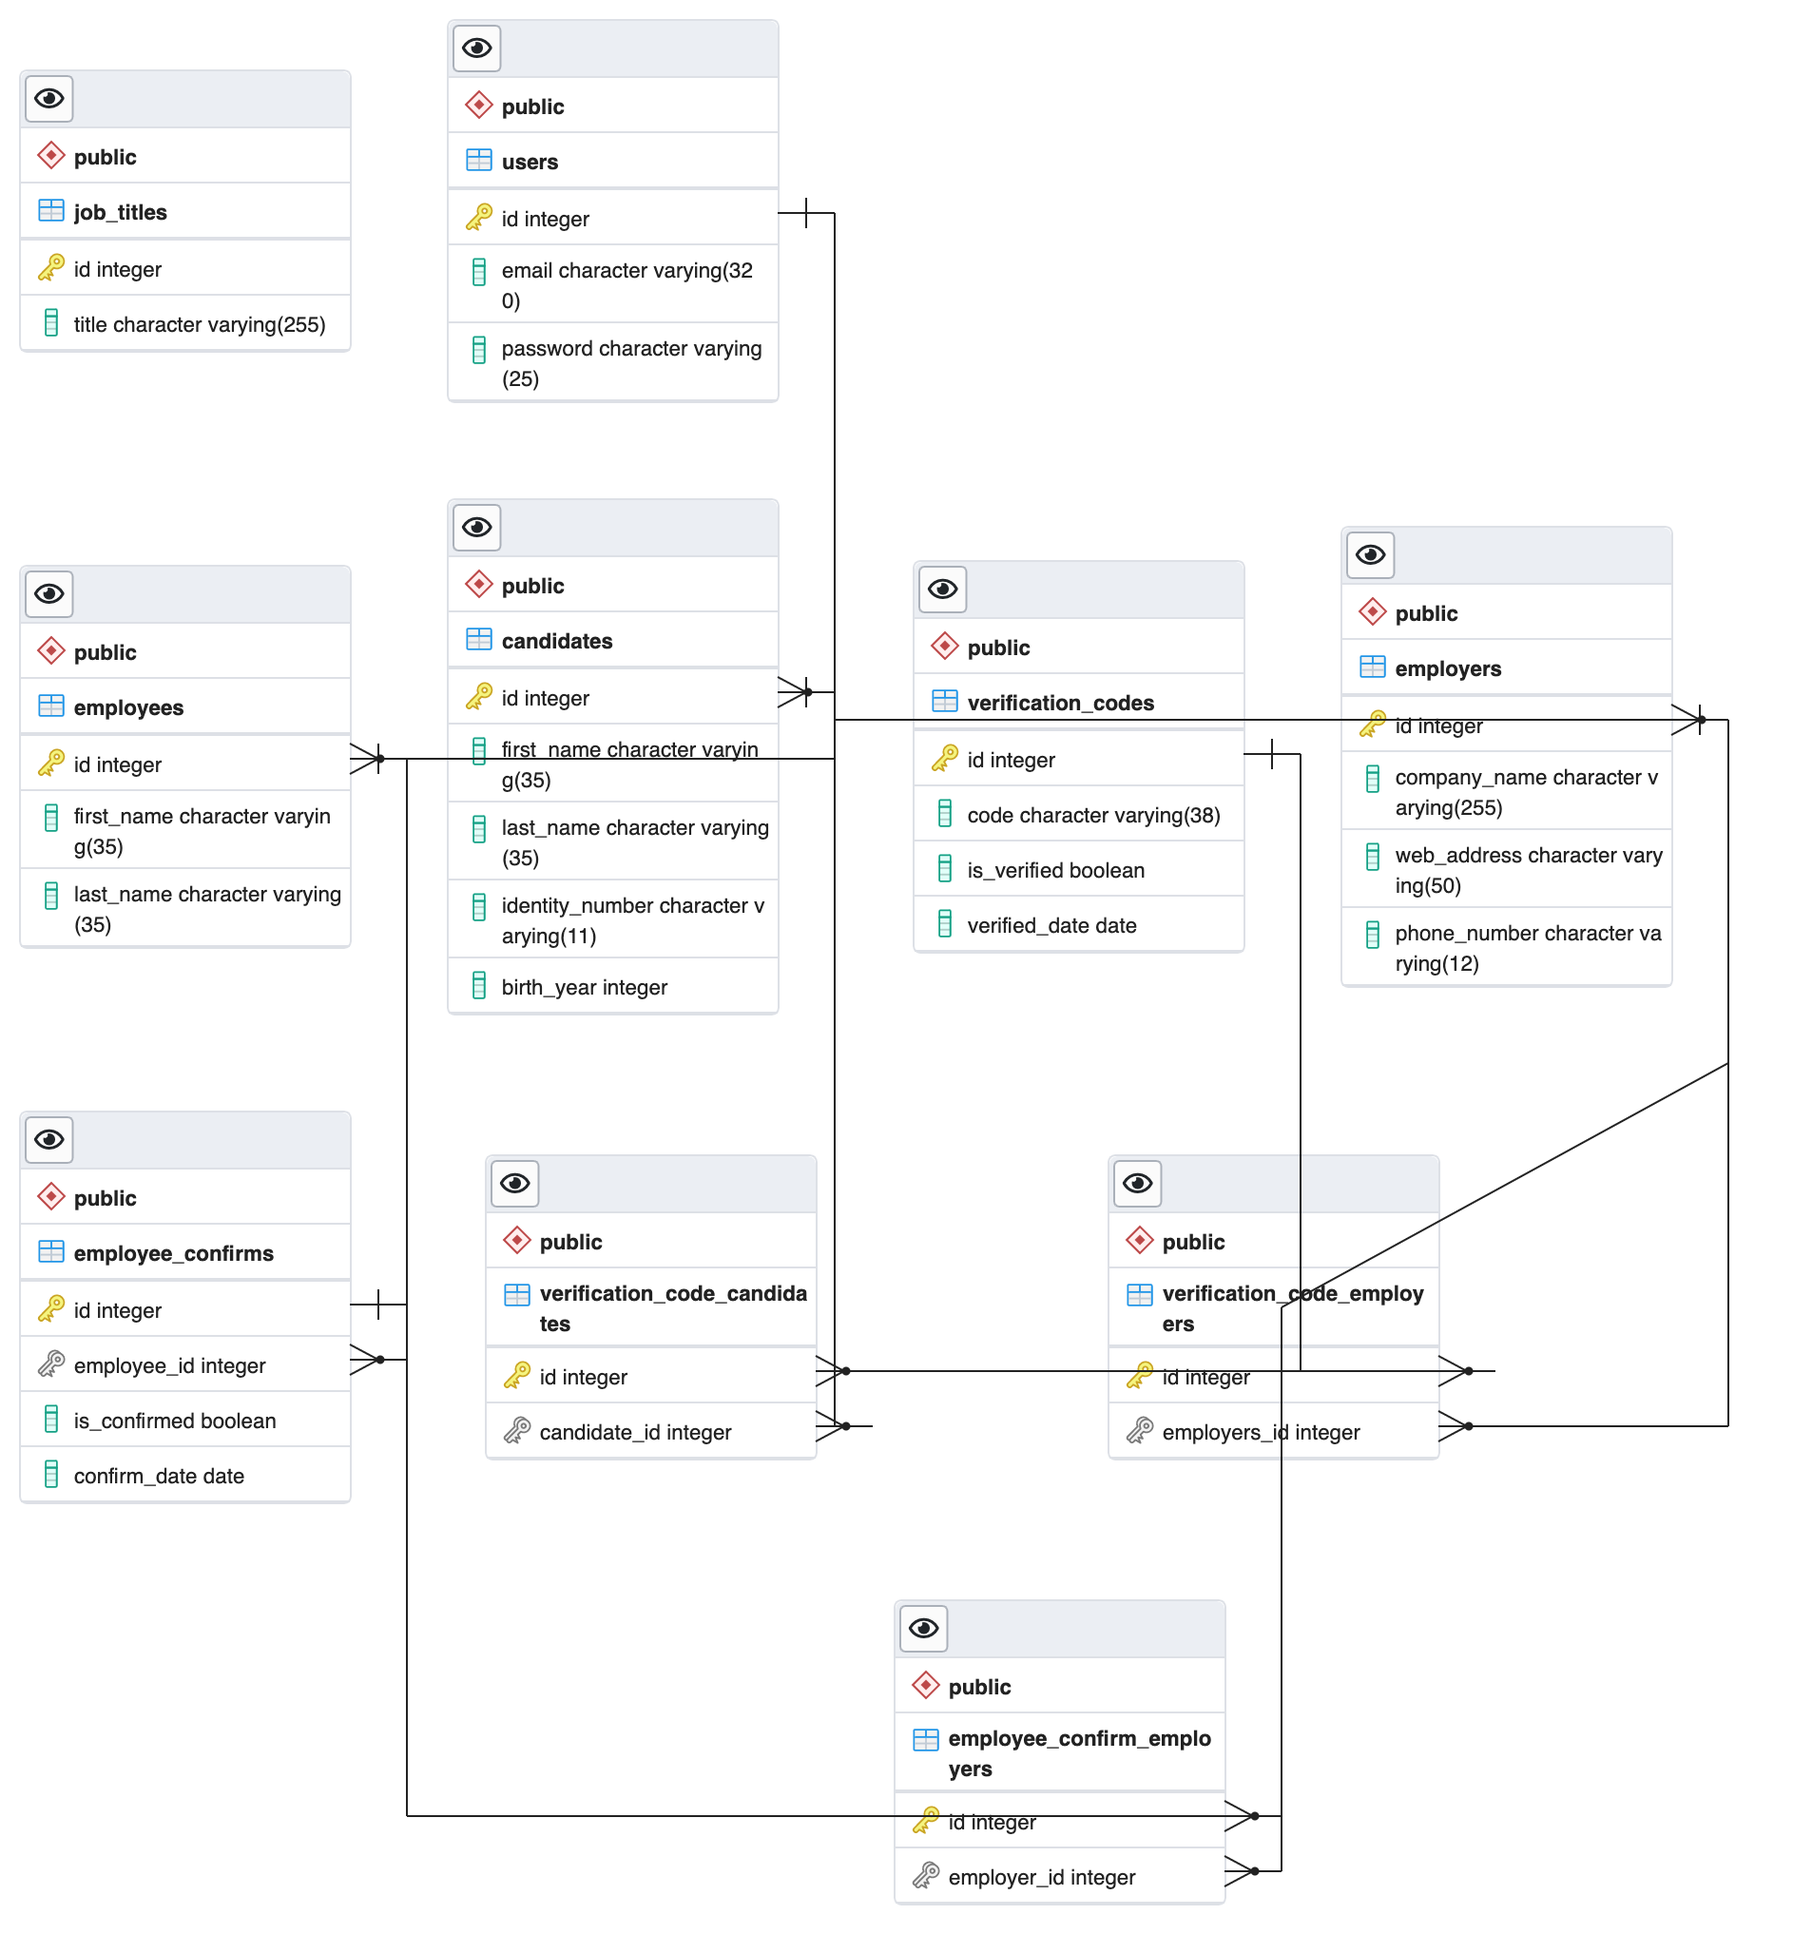
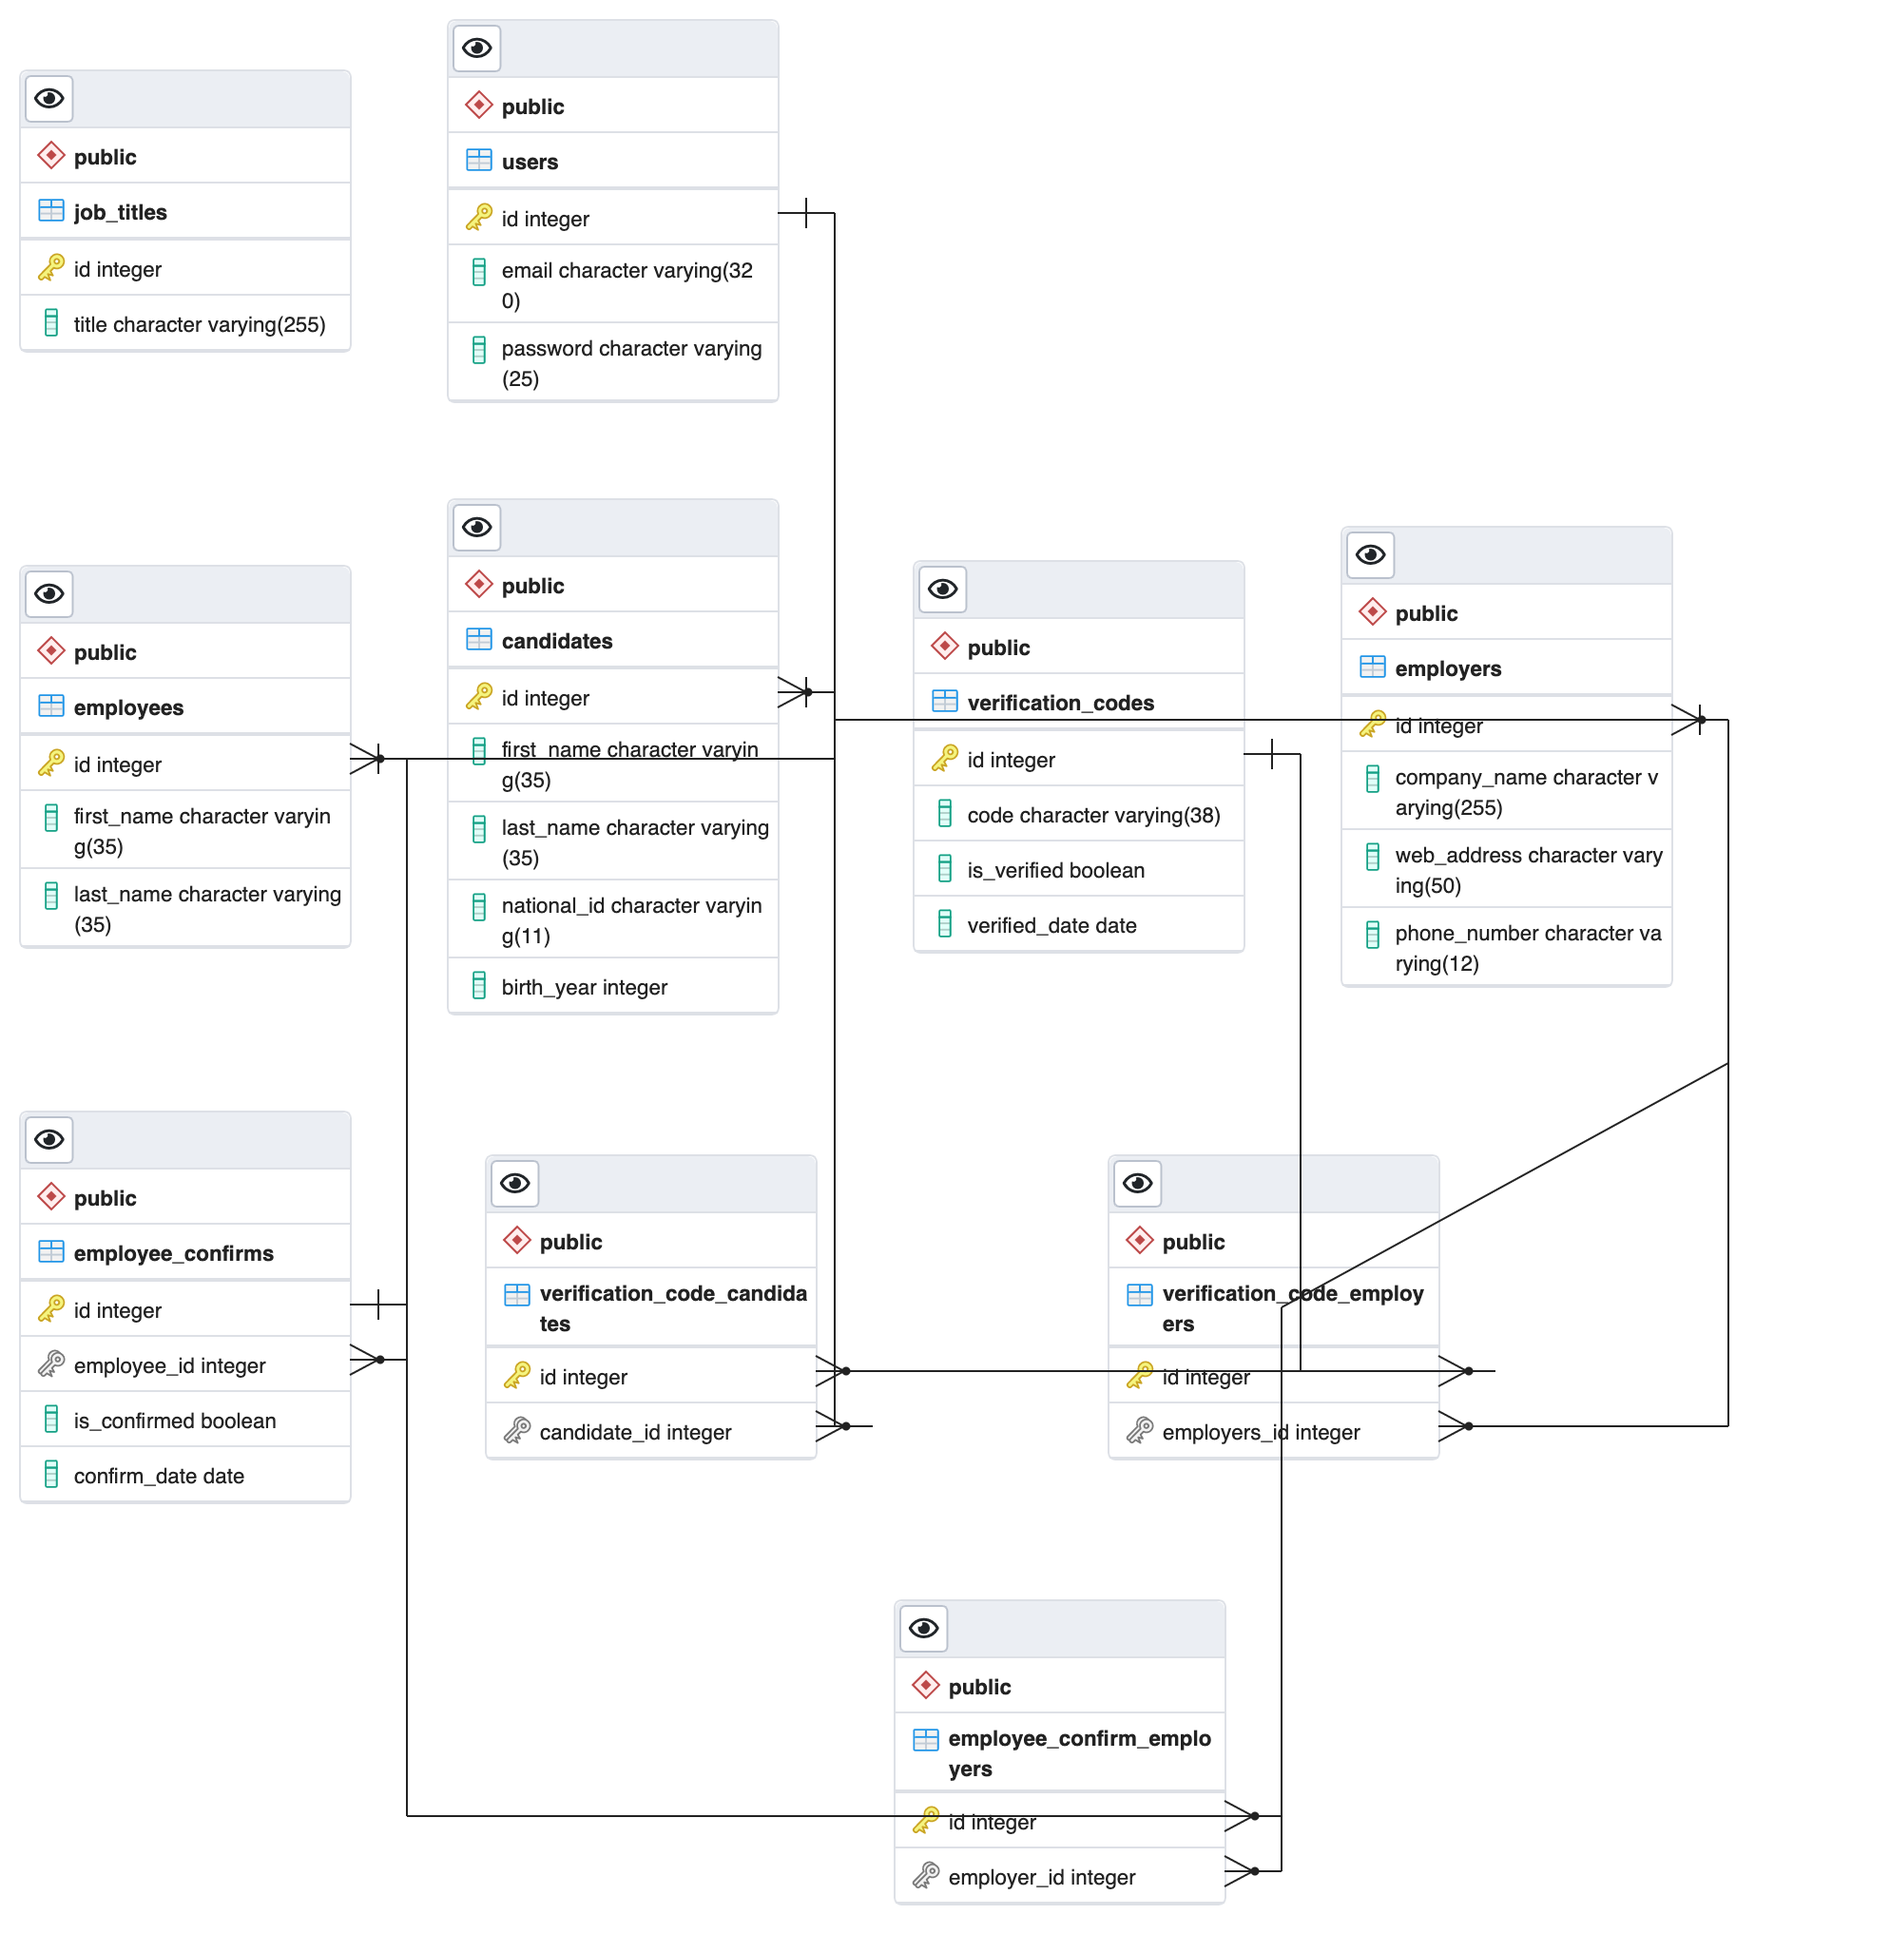
Database updated.

diff --git a/src/main/java/com/bbkdevelopment/hrms/entities/concretes/Candidate.java b/src/main/java/com/bbkdevelopment/hrms/entities/concretes/Candidate.java
@@ -26,10 +26,6 @@ public class Candidate extends User {
 
     public Candidate(int id, String email, String password, String firstName, String lastName, String nationalId, Date yearOfBirth) {
         super(id, email, password);
-        this.id = id;
-        this.firstName = firstName;
-        this.lastName = lastName;
-        this.nationalId = nationalId;
-        this.yearOfBirth = yearOfBirth;
+
     }
 }

diff --git a/database/README.md b/database/README.md
@@ -6,7 +6,7 @@
 
 ```sql
 CREATE TABLE public.users(
-	id INT GENERATED BY DEFAULT AS IDENTITY(INCREMENT 1 START 1 MINVALUE 1 MAXVALUE 2147483647 CACHE 1),
+	id INTEGER GENERATED BY DEFAULT AS IDENTITY(INCREMENT 1 START 1 MINVALUE 1 MAXVALUE 2147483647 CACHE 1),
 	email CHARACTER VARYING(320) NOT NULL,
 	password CHARACTER VARYING(25) NOT NULL,
 	CONSTRAINT pk_users PRIMARY KEY(id),
@@ -14,7 +14,7 @@ CREATE TABLE public.users(
 );
 
 CREATE TABLE public.employees(
-	id INT NOT NULL,
+	id INTEGER NOT NULL,
 	first_name CHARACTER VARYING(35) NOT NULL,
 	last_name CHARACTER VARYING(35) NOT NULL,
 	CONSTRAINT pk_employees PRIMARY KEY(id),
@@ -22,18 +22,18 @@ CREATE TABLE public.employees(
 );
 
 CREATE TABLE public.candidates(
-	id INT NOT NULL,
+	id INTEGER NOT NULL,
 	first_name CHARACTER VARYING(35) NOT NULL,
 	last_name CHARACTER VARYING(35) NOT NULL,
-	identity_number CHARACTER VARYING(11) NOT NULL,
-	birth_year INT NOT NULL,
+	national_id CHARACTER VARYING(11) NOT NULL,
+	birth_year INTEGER NOT NULL,
 	CONSTRAINT pk_candidates PRIMARY KEY(id),
 	CONSTRAINT fk_candidates_users FOREIGN KEY(id) REFERENCES public.users(id),
-	CONSTRAINT uc_candidates_idendity_number UNIQUE(identity_number)
+	CONSTRAINT uc_candidates_national_id UNIQUE(national_id)
 );
 
 CREATE TABLE public.employers(
-	id INT NOT NULL,
+	id INTEGER NOT NULL,
 	company_name CHARACTER VARYING(255) NOT NULL,
 	web_address CHARACTER VARYING(50) NOT NULL,
 	phone_number CHARACTER VARYING(12) NOT NULL,
@@ -42,7 +42,7 @@ CREATE TABLE public.employers(
 );
 
 CREATE TABLE public.verification_codes(
-	id INT GENERATED BY DEFAULT AS IDENTITY(INCREMENT 1 START 1 MINVALUE 1 MAXVALUE 2147483647 CACHE 1),
+	id INTEGER GENERATED BY DEFAULT AS IDENTITY(INCREMENT 1 START 1 MINVALUE 1 MAXVALUE 2147483647 CACHE 1),
 	code CHARACTER VARYING(38) NOT NULL,
 	is_verified BOOLEAN NOT NULL,
 	verified_date DATE,
@@ -51,24 +51,24 @@ CREATE TABLE public.verification_codes(
 );
 
 CREATE TABLE public.verification_code_candidates(
-	id INT NOT NULL,
-	candidate_id INT NOT NULL,
+	id INTEGER NOT NULL,
+	candidate_id INTEGER NOT NULL,
 	CONSTRAINT pk_verification_code_candidates PRIMARY KEY(id),
 	CONSTRAINT fk_verification_code_candidates_verification_codes FOREIGN KEY(id) REFERENCES public.verification_codes(id),
 	CONSTRAINT fk_verification_code_candidates_candidates FOREIGN KEY(candidate_id) REFERENCES public.candidates(id)
 );
 
 CREATE TABLE public.verification_code_employers(
-	id INT NOT NULL,
-	employers_id INT NOT NULL,
+	id INTEGER NOT NULL,
+	employers_id INTEGER NOT NULL,
 	CONSTRAINT pk_verification_code_employers PRIMARY KEY(id),
 	CONSTRAINT fk_verification_code_employers_verification_codes FOREIGN KEY(id) REFERENCES public.verification_codes(id),
 	CONSTRAINT fk_verification_code_employers_employers FOREIGN KEY(employers_id) REFERENCES public.employers(id)
 );
 
 CREATE TABLE public.employee_confirms(
-	id INT GENERATED BY DEFAULT AS IDENTITY(INCREMENT 1 START 1 MINVALUE 1 MAXVALUE 2147483647 CACHE 1),
-	employee_id INT NOT NULL,
+	id INTEGER GENERATED BY DEFAULT AS IDENTITY(INCREMENT 1 START 1 MINVALUE 1 MAXVALUE 2147483647 CACHE 1),
+	employee_id INTEGER NOT NULL,
 	is_confirmed BOOLEAN NOT NULL,
 	confirm_date DATE,
 	CONSTRAINT pk_employee_confirms PRIMARY KEY(id),
@@ -76,15 +76,15 @@ CREATE TABLE public.employee_confirms(
 );
 
 CREATE TABLE public.employee_confirm_employers(
-	id INT NOT NULL,
-	employer_id INT NOT NULL,
+	id INTEGER NOT NULL,
+	employer_id INTEGER NOT NULL,
 	CONSTRAINT pk_employee_confirm_employers PRIMARY KEY(id),
 	CONSTRAINT fk_employee_confirm_employers_employee_confirms FOREIGN KEY(id) REFERENCES public.employee_confirms(id),
 	CONSTRAINT fk_employee_confirm_employers_employers FOREIGN KEY(employer_id) REFERENCES public.employers(id)
 );
 
 CREATE TABLE public.job_titles(
-	id INT GENERATED BY DEFAULT AS IDENTITY(INCREMENT 1 START 1 MINVALUE 1 MAXVALUE 2147483647 CACHE 1),
+	id INTEGER GENERATED BY DEFAULT AS IDENTITY(INCREMENT 1 START 1 MINVALUE 1 MAXVALUE 2147483647 CACHE 1),
 	title CHARACTER VARYING(255),
 	CONSTRAINT pk_job_titles PRIMARY KEY(id),
 	CONSTRAINT uc_job_titles_title UNIQUE(title)

diff --git a/README.md b/README.md
@@ -18,12 +18,12 @@ See database:
 ## 1. Progress
 
 | **Status** | **Task** |
-| -------------: | :------------- |
-| :ballot_box_with_check: Completed | Create an appropriate database. |
-| :ballot_box_with_check: Completed | Create a project using Spring Boot. |
-| :ballot_box_with_check: Completed | Create layers based on N-Layered Design Pattern. |
-| :ballot_box_with_check: Completed | Create an API that can list the titles of the job positions on the system. |
-| :ballot_box_with_check: Completed | Add Swagger support to the system. |
+| ------------- | :------------- |
+| :ballot_box_with_check: &nbsp; Completed | Create an appropriate database. |
+| :ballot_box_with_check: &nbsp; Completed | Create a project using Spring Boot. |
+| :ballot_box_with_check: &nbsp; Completed | Create layers based on N-Layered Design Pattern. |
+| :ballot_box_with_check: &nbsp; Completed | Create an API that can list the titles of the job positions on the system. |
+| :ballot_box_with_check: &nbsp; Completed | Add Swagger support to the system. |
 
 ## 2. Swagger UI
 
